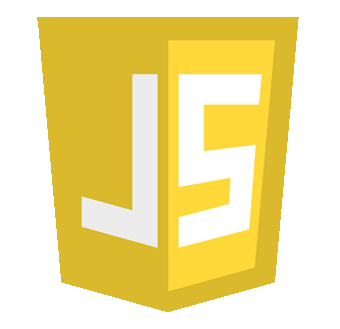
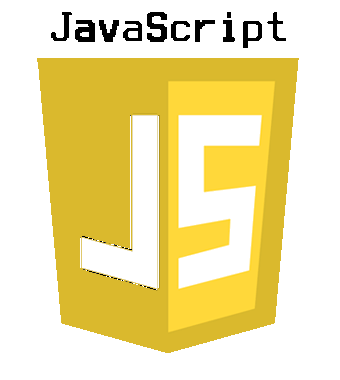
LineNumber0 commit message from the Terminal with sync.sh file

diff --git a/index.html b/index.html
@@ -25,6 +25,7 @@
 <li><a href="steps.html" ><code>steps()</code> Function of <code>transition-timing-function</code> CSS3 property</a></li>
 <li><a href="ttf.html" ><code>cubic-bezier()</code> values of <code>transition-timing-function</code></a></li>
 </ul>
+<script src="JS/jquery-2.1.3.min.js" ></script>
   <script type="text/javascript">
     for (var i = 0; i < document.links.length; i++) {
       document.links[i].setAttribute("target","_blank");
@@ -35,10 +36,10 @@
     for (var j = 0; j < elements.length; j++) {
       elements[j].addEventListener("mouseover",function(e){
       var elevents = e.target;
-      if (elevents.title.indexOf("/") == -1) {								// ((mabghinach elliyanat !))
+      if (elevents.title.indexOf("/") == -1) {								// (( mabghinach elliyanat ! ))
       ttip.innerHTML = elevents.getAttribute("title");
       }
-      })
+      });
     }
 
     var hline = document.querySelector("h1");
@@ -46,6 +47,24 @@
     hline.innerHTML = hline.innerHTML.replace("LineNumber0","\x42\x65\x6E\x6C\x61\x6D\x69\x6E\x65\x20\x41\x62\x64\x65\x6C\x6D\x6F\x75\x72\x68\x69\x74");
     }
 
+    if ("animation" in document.body.style) {
+    var bdy = [];
+    for (var l = 0; l < 30; l++) {
+      var randomX = Math.round(Math.random() * (100 - 1) + 1);
+      var randomY = Math.round(Math.random() * (1200 - 1) + 1);
+      var randomZ = Math.round(Math.random() * (100 - 1) + 1);
+      var srcs = ['ext/CSS3.png','ext/HTML5.png','ext/javascript.png'];
+      var rsrcs = srcs[Math.round(Math.random() * 2)];
+      var nbdy = bdy.push('<img src='+rsrcs+' style="left:'+randomX+'%;top:'+randomY+'px;width:'+randomZ+'px;height: '+randomZ+'/>');
+      }
+      // using jquery ...
+      $("body").append( bdy.join('') );
+      }
   </script>
+  <noscript>
+    <link rel="stylesheet" href="styles/noscript.css">
+      JavaScript is disabled on you Browser !<br/>
+      Some links in this page need JavaScript to work ...
+    </noscript>
   </body>
 </html>

diff --git a/styles/noscript.css b/styles/noscript.css
@@ -1,0 +1,30 @@
+@charset "UTF-8";
+body *[title]:not(a)::after {
+  content:'';
+  right:-999px;
+  transition:right 1s;
+}
+body *[title]:not(a):hover::after {
+  content:attr(title);
+  position:fixed;
+  bottom:5%;
+  right:32px;
+  transition:right 1s;
+}
+body *[title]:not(a):hover::after, noscript {
+  font-weight:bold;
+  font-size:x-large;
+  padding:1em;
+  border:1px solid dimgray;
+  border-radius:16px;
+  background-color:lightyellow;
+}
+noscript {
+  position:fixed;
+  right:-999px;
+  top:5%;
+  transition:right 1s;
+}
+ul:hover ~ noscript {
+  right:32px;
+}

diff --git a/styles/myindex.css b/styles/myindex.css
@@ -55,3 +55,13 @@
   right:-500px;
   transition:right 1s;
   }
+ /* for logo animation */
+ @keyframes snowflake {
+   100% { transform: translateY(1800px) rotate(1200deg);  }
+ }
+ img { 
+   opacity:0.5;
+   position: absolute;
+   z-index:-1;
+   animation: snowflake 40s linear infinite;  
+ }
